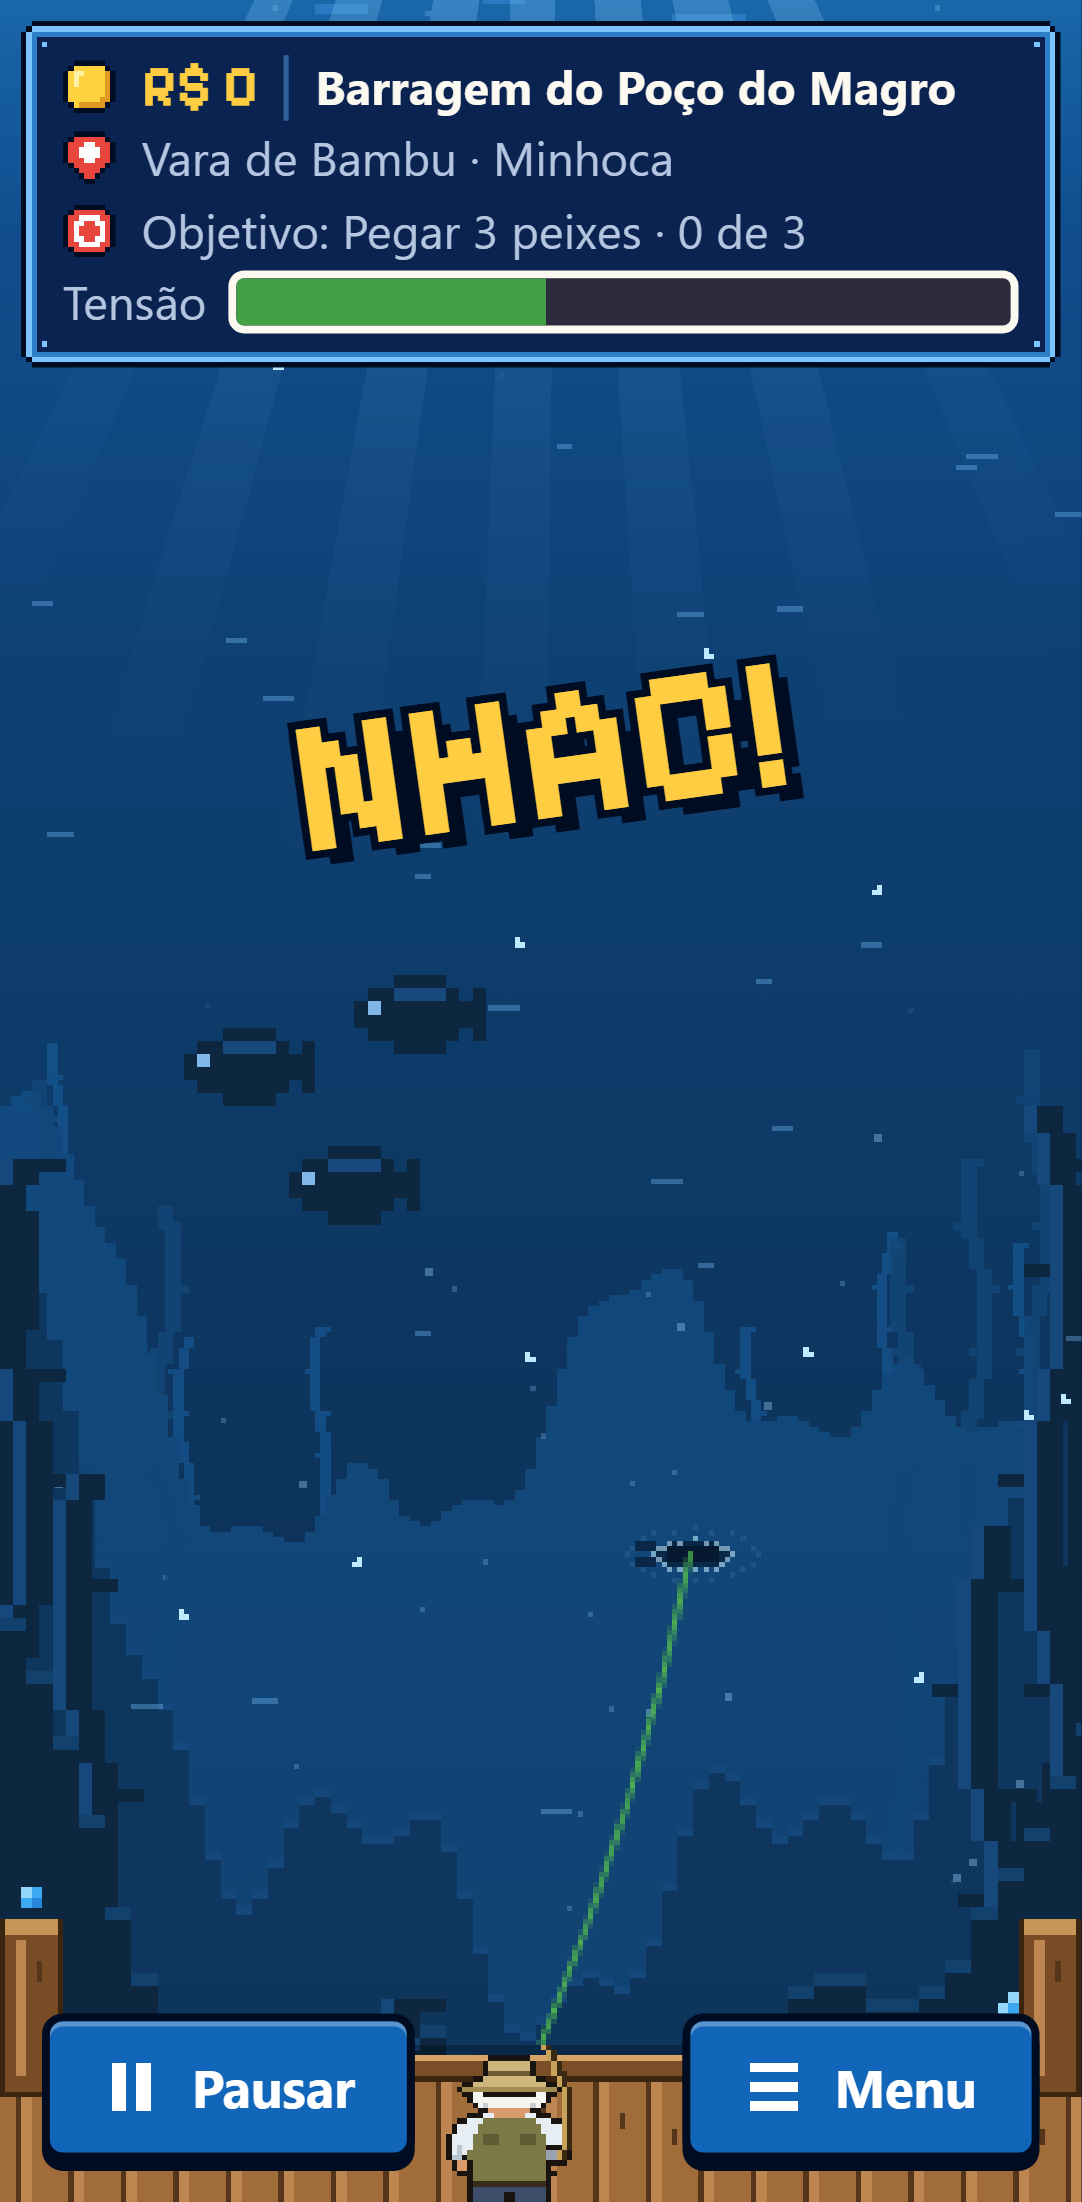
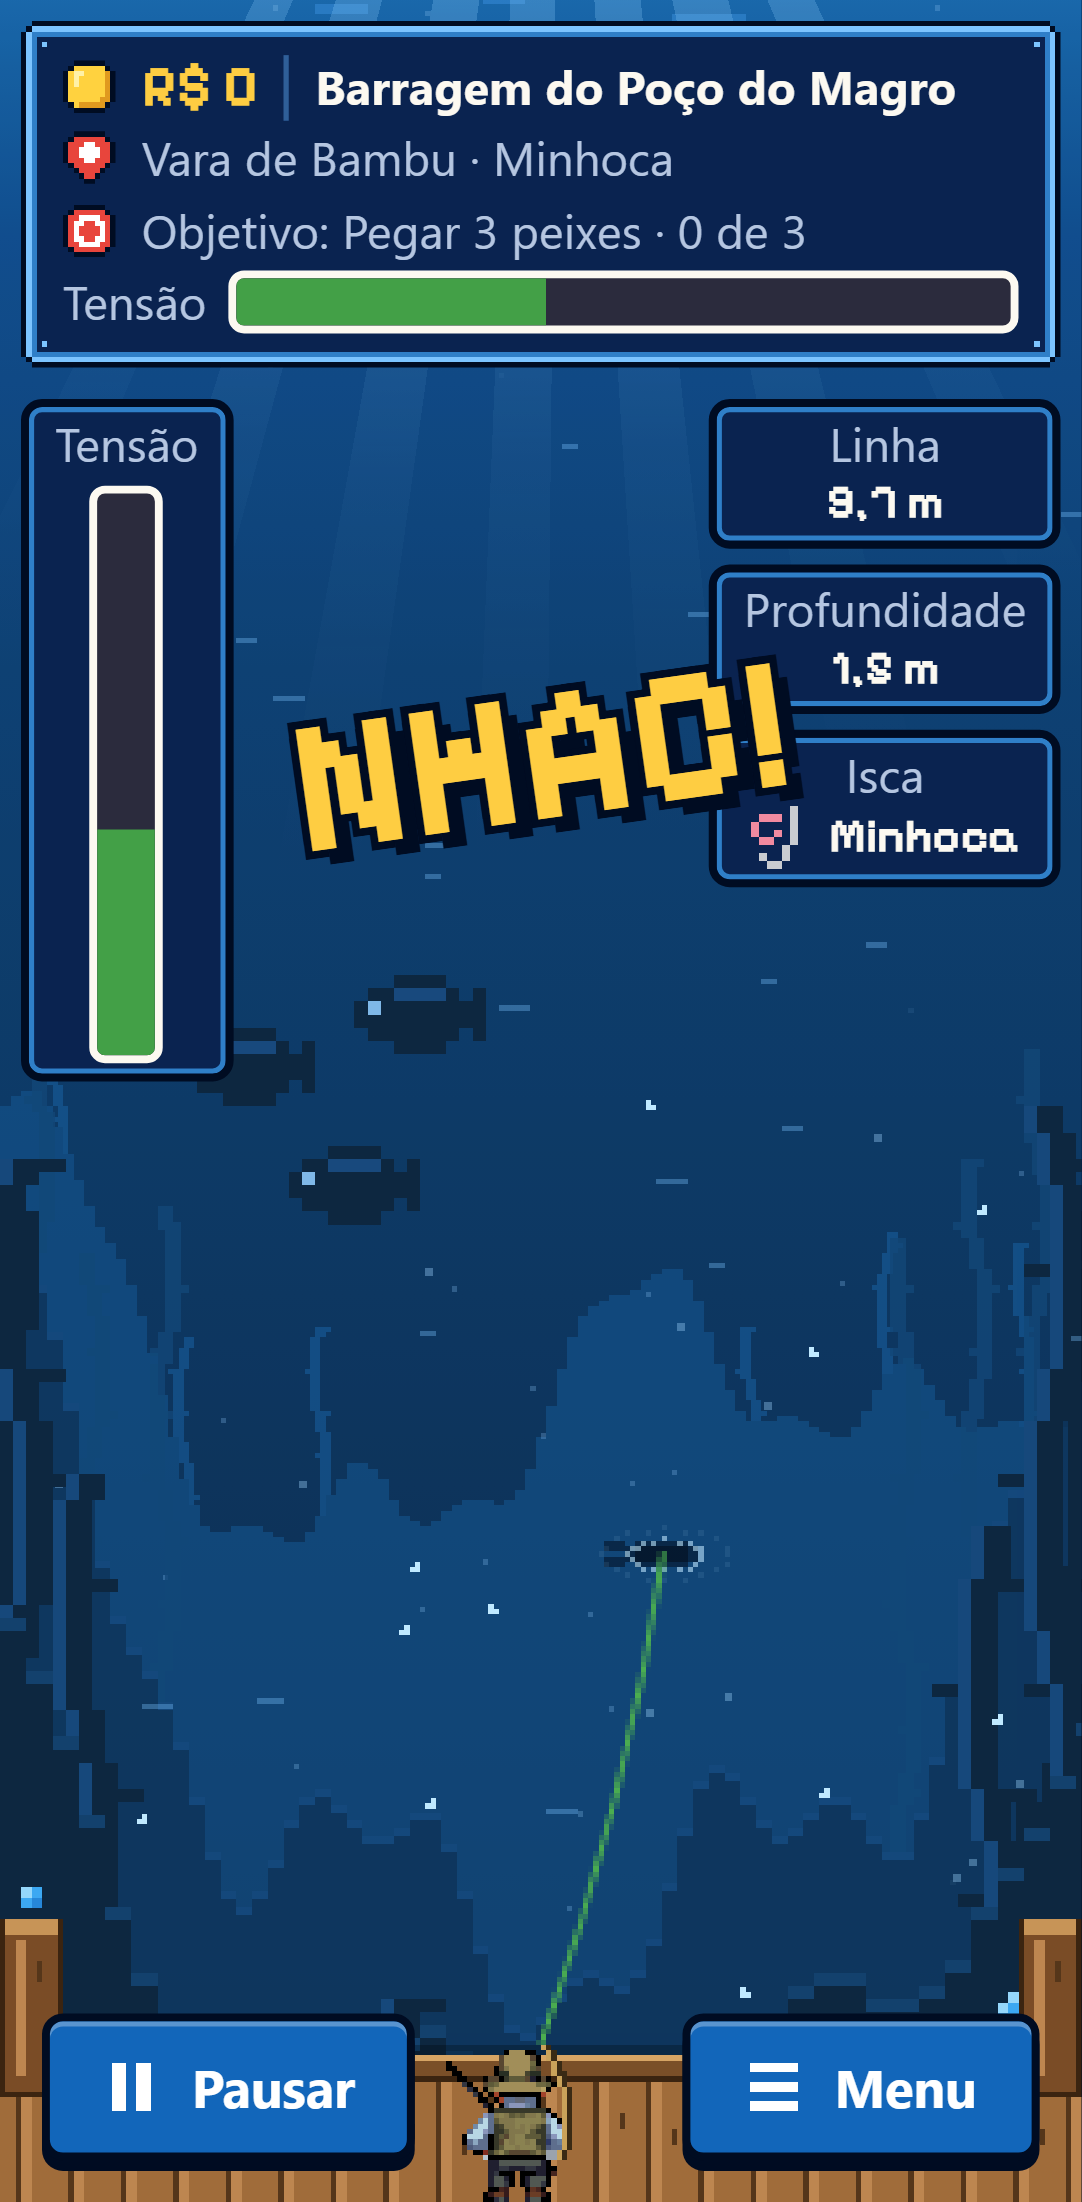
feat(art): coloca no jogo a arte aprovada
Retratos do Adilson, da Jane e da Lavínia nas 4 expressões entram nos
diálogos e cartões no lugar das iniciais. O Adilson de corpo inteiro
entra na cena: de costas parado, arremessando e recolhendo, e de frente
posando. Cada folha repete o mesmo quadro 4 vezes, reduzido para a
caixa de 24 × 29 sem borrar. Prints do Pixel 7 atualizados.

diff --git a/.specs/features/v1-mvp/tasks.md b/.specs/features/v1-mvp/tasks.md
@@ -1600,11 +1600,11 @@ T53 → T54
 
 **Done when**:
 
-- [ ] Retratos do Adilson e da Jane aparecem nos diálogos e cartões no lugar das iniciais, com a expressão certa (`data-expression` mantido)
-- [ ] O Adilson de costas aparece na cena da pescaria e o de frente no "PEGOU!"
-- [ ] Os e2e existentes continuam passando sem mudança nas asserções
-- [ ] Prints do Pixel 7 do diálogo e da pescaria atualizados em `docs/arte/mockups/`
-- [ ] Gate check passes: build
+- [x] Retratos do Adilson e da Jane aparecem nos diálogos e cartões no lugar das iniciais, com a expressão certa (`data-expression` mantido)
+- [x] O Adilson de costas aparece na cena da pescaria e o de frente no "PEGOU!"
+- [x] Os e2e existentes continuam passando sem mudança nas asserções
+- [x] Prints do Pixel 7 do diálogo e da pescaria atualizados em `docs/arte/mockups/`
+- [x] Gate check passes: build
 
 **Tests**: none
 **Gate**: build
